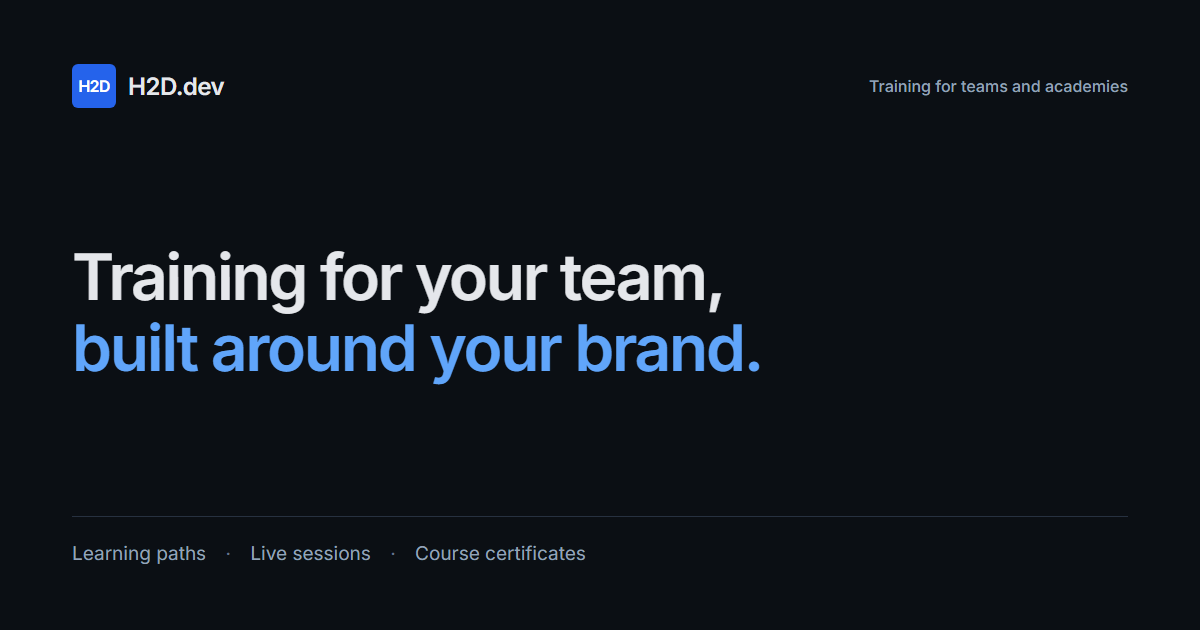
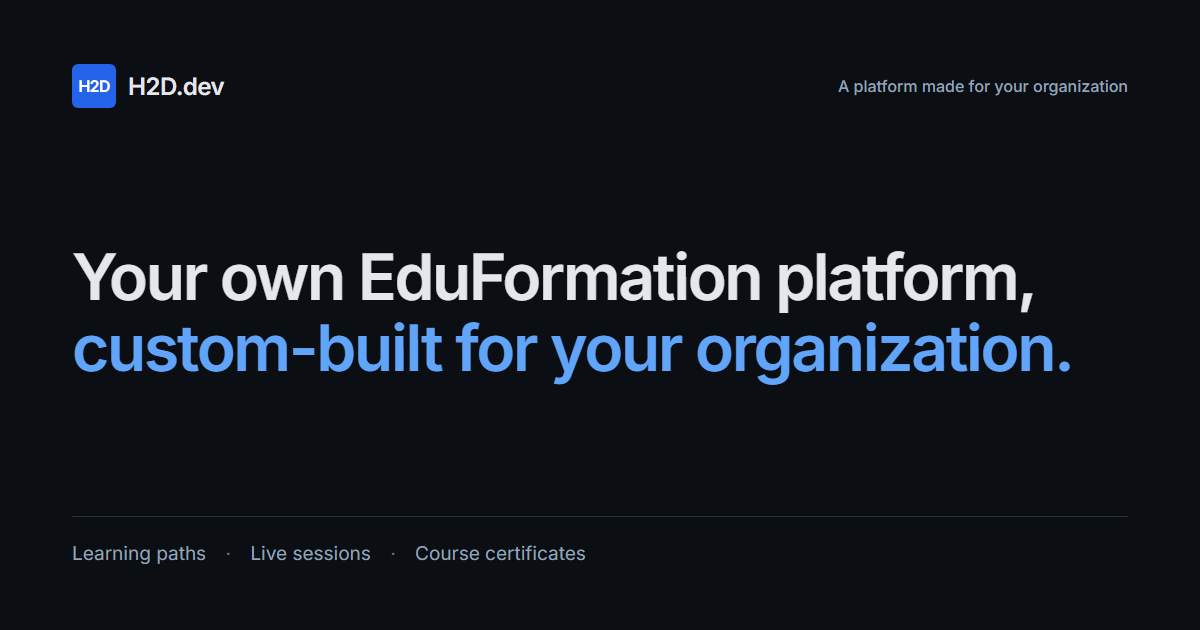
feat: update landing page content and metadata for EduFormation branding

Changed region(s): [[0.0617, 0.3921, 0.8942, 0.6333], [0.6783, 0.1206, 0.9558, 0.1508]]

diff --git a/src/content/ar.ts b/src/content/ar.ts
@@ -8,9 +8,9 @@ import type { Copy } from "./types";
  */
 export const ar = {
   meta: {
-    title: "H2D.dev — تدريب يحمل هوية مؤسستك.",
+    title: "EduFormation — منصتك التدريبية بهويتك | H2D.dev",
     description:
-      "تساعد H2D.dev الأكاديميات والشركات على تقديم تدريب يحمل هويتها، مع دورات منظّمة وجلسات مباشرة ومتابعة التقدّم وشهادات.",
+      "احصل على منصة EduFormation مخصصة لأكاديميتك أو شركتك، بهويتك ودوراتك وجلساتك المباشرة ومتابعة المتدربين وشهاداتك.",
   },
 
   nav: {
@@ -29,12 +29,12 @@ export const ar = {
 
   hero: {
     eyebrow: "H2D.dev · التعلّم والتطوير",
-    title: "تدريب يلائم فريقك،",
-    highlight: "ويحمل هويتك.",
-    body: "أساعد الأكاديميات والشركات على تقديم تجربة تدريب واضحة: دورات منظّمة، وجلسات مباشرة، ومتابعة لتقدّم المتدرّبين، وشهادات تحمل هويتكم.",
-    ctaPrimary: "أرسل لي رسالة",
-    ctaSecondary: "راسلني بالبريد",
-    meta: "أخبرني باحتياج متدرّبيك، وسأساعدك على اختيار الحل المناسب.",
+    title: "منصة تدريب خاصة بمؤسستك،",
+    highlight: "مصممة وفق احتياجاتك.",
+    body: "نبني لكل أكاديمية أو شركة نسخة مخصصة من EduFormation تحمل هويتها وتناسب احتياجاتها التدريبية، مع دوراتها وجلساتها المباشرة ومتابعة المتدربين وشهاداتها.",
+    ctaPrimary: "اطلب عرضًا توضيحيًا",
+    ctaSecondary: "راسلنا بالبريد",
+    meta: "اكتشف كيف يمكن تخصيص EduFormation لمؤسستك.",
     figureCaption: "عرض الدورة. تخطيط توضيحي، وليس لقطة من بيانات حقيقية.",
 
     figureCourse: "التعريف بالشركة",
@@ -199,8 +199,8 @@ export const ar = {
 
   faq: {
     title: "أسئلة تستحق الطرح",
-    q1: "هل نستضيفه بأنفسنا، أم أنه خدمة نشترك بها؟",
-    a1: "تنشرون التطبيق مع قاعدة بيانات PostgreSQL ووحدة تخزين متوافقة مع S3 تخصّكم. ويتم الدخول بحساب ينشئه مسؤول؛ ولا يوجد تسجيل ذاتي.",
+    q1: "هل ستحصل مؤسستنا على منصة مخصصة بها؟",
+    a1: "نعم. تحصل كل أكاديمية أو شركة على منصة EduFormation خاصة بها، مخصصة لهويتها واحتياجاتها التدريبية، مع دوراتها ومتدربيها ولوحة إدارتها.",
     q2: "ما اللغات المدعومة؟",
     a2: "الإنجليزية والفرنسية والعربية، مع تخطيطات من اليمين إلى اليسار. وكل الشاشات، بما فيها الإدارة، تستخدم القاموس ثلاثي اللغات نفسه.",
     q3: "هل يمكننا تحديد الدورات التي يراها المتدرّب؟",
@@ -218,13 +218,13 @@ export const ar = {
   },
 
   finalCta: {
-    title: "لنتحدث عن احتياجاتك التدريبية",
-    body: "أخبرني قليلًا عن فريقك أو أكاديميتك، وسأردّ على عنوان البريد الذي تكتبه.",
-    primary: "اكتب رسالة",
+    title: "اطلب عرضًا توضيحيًا لمنصتك",
+    body: "أخبرنا عن أكاديميتك أو شركتك. سنريك كيف نخصص EduFormation لهويتك ومتدربيك وأهدافك التدريبية.",
+    primary: "اطلب عرضًا توضيحيًا",
   },
 
   footer: {
-    tagline: "EduFormation، من H2D.dev.",
+    tagline: "منصة EduFormation مخصصة لكل عميل.",
     product: "المنتج",
     courses: "الدورات",
     resources: "الموارد",
@@ -242,20 +242,20 @@ export const ar = {
   form: {
     name: "الاسم",
     email: "البريد الإلكتروني",
-    message: "كيف يمكنني مساعدتك؟",
-    submit: "إرسال الرسالة",
+    message: "ما الذي تودّ رؤيته في العرض التوضيحي؟",
+    submit: "أرسل طلب العرض التوضيحي",
     submitting: "جارٍ الإرسال…",
-    success: "شكرًا — سأردّ على {email}.",
+    success: "شكرًا — سنردّ على {email} بخصوص طلب العرض التوضيحي.",
     mailtoOpened: "من المفترض أن يفتح تطبيق البريد برسالتك موجّهة إلى {email}. أرسل الرسالة من التطبيق لإكمال طلبك.",
     error: "لم يتم الإرسال. حاول مرة أخرى، أو راسلنا على {email}.",
     errorName: "أدخل الاسم الذي يجب أن نوجّه الرد إليه.",
     errorEmail: "أدخل عنوان بريد إلكتروني صالحًا، مثل name@example.com.",
-    errorMessage: "اكتب رسالة قصيرة توضّح ما تحتاج إليه.",
+    errorMessage: "أخبرنا قليلًا عن مؤسستك أو احتياجاتك التدريبية.",
   },
 
   contact: {
-    mailtoSubject: "رسالة من موقع H2D.dev",
-    mailtoBody: "مرحبًا،",
+    mailtoSubject: "طلب عرض توضيحي لمنصة EduFormation",
+    mailtoBody: "مرحبًا، أرغب في التعرف على منصة EduFormation مخصصة لمؤسستي.",
   },
 
   unit: {

diff --git a/index.html b/index.html
@@ -4,36 +4,36 @@
     <meta charset="UTF-8" />
     <meta name="viewport" content="width=device-width, initial-scale=1.0" />
     <meta name="theme-color" content="#0b0f14" />
-    <title>H2D.dev — تدريب يحمل هوية مؤسستك.</title>
-    <meta name="description" content="تساعد H2D.dev الأكاديميات والشركات على تقديم تدريب يحمل هويتها، مع دورات منظّمة وجلسات مباشرة ومتابعة التقدّم وشهادات." />
+    <title>EduFormation — منصتك التدريبية بهويتك | H2D.dev</title>
+    <meta name="description" content="احصل على منصة EduFormation مخصصة لأكاديميتك أو شركتك، بهويتك ودوراتك وجلساتك المباشرة ومتابعة المتدربين وشهاداتك." />
     <link rel="canonical" href="%VITE_SITE_URL%/" />
     <link rel="icon" type="image/svg+xml" href="/favicon.svg" />
     <link rel="preload" href="/src/fonts/InterVariable.woff2" as="font" type="font/woff2" crossorigin />
 
     <meta property="og:type" content="website" />
     <meta property="og:site_name" content="H2D.dev" />
-    <meta property="og:title" content="H2D.dev — تدريب يحمل هوية مؤسستك." />
-    <meta property="og:description" content="تساعد H2D.dev الأكاديميات والشركات على تقديم تدريب يحمل هويتها، مع دورات منظّمة وجلسات مباشرة ومتابعة التقدّم وشهادات." />
+    <meta property="og:title" content="EduFormation — منصتك التدريبية بهويتك | H2D.dev" />
+    <meta property="og:description" content="احصل على منصة EduFormation مخصصة لأكاديميتك أو شركتك، بهويتك ودوراتك وجلساتك المباشرة ومتابعة المتدربين وشهاداتك." />
     <meta property="og:url" content="%VITE_SITE_URL%/" />
     <meta property="og:image" content="%VITE_SITE_URL%/og.png" />
     <meta property="og:image:width" content="1200" />
     <meta property="og:image:height" content="630" />
-    <meta property="og:image:alt" content="H2D.dev — تدريب يحمل هوية مؤسستك." />
+    <meta property="og:image:alt" content="EduFormation — منصتك التدريبية المخصصة." />
     <meta property="og:locale" content="ar_AR" />
     <meta property="og:locale:alternate" content="en_US" />
     <meta property="og:locale:alternate" content="fr_FR" />
     <meta name="twitter:card" content="summary_large_image" />
-    <meta name="twitter:title" content="H2D.dev — تدريب يحمل هوية مؤسستك." />
-    <meta name="twitter:description" content="تساعد H2D.dev الأكاديميات والشركات على تقديم تدريب يحمل هويتها، مع دورات منظّمة وجلسات مباشرة ومتابعة التقدّم وشهادات." />
+    <meta name="twitter:title" content="EduFormation — منصتك التدريبية بهويتك | H2D.dev" />
+    <meta name="twitter:description" content="احصل على منصة EduFormation مخصصة لأكاديميتك أو شركتك، بهويتك ودوراتك وجلساتك المباشرة ومتابعة المتدربين وشهاداتك." />
     <meta name="twitter:image" content="%VITE_SITE_URL%/og.png" />
-    <meta name="twitter:image:alt" content="H2D.dev — تدريب يحمل هوية مؤسستك." />
+    <meta name="twitter:image:alt" content="EduFormation — منصتك التدريبية المخصصة." />
 
     <script type="application/ld+json">
       {
         "@context": "https://schema.org",
         "@graph": [
           { "@type": "Organization", "name": "H2D.dev", "url": "%VITE_SITE_URL%/", "logo": "%VITE_SITE_URL%/favicon.svg" },
-          { "@type": "SoftwareApplication", "name": "EduFormation", "url": "%VITE_SITE_URL%/", "applicationCategory": "BusinessApplication", "operatingSystem": "Web", "description": "منصة تدريب تساعد الأكاديميات والشركات على تقديم دورات وجلسات مباشرة وشهادات تحمل هويتها." }
+          { "@type": "SoftwareApplication", "name": "EduFormation", "url": "%VITE_SITE_URL%/", "applicationCategory": "BusinessApplication", "operatingSystem": "Web", "description": "منصة تدريب مخصصة لكل أكاديمية أو شركة، بهويتها ودوراتها وجلساتها المباشرة وشهاداتها." }
         ]
       }
     </script>
@@ -63,8 +63,8 @@
   <body>
     <div id="root">
       <main class="site-fallback">
-        <h1>تدريب يلائم فريقك، ويحمل هويتك.</h1>
-        <p>تساعد H2D.dev الأكاديميات والشركات على تقديم تجربة تدريب واضحة مع دورات منظّمة وجلسات مباشرة ومتابعة للتقدّم وشهادات تحمل هويتهم.</p>
+        <h1>منصة تدريب خاصة بمؤسستك، مصممة وفق احتياجاتك.</h1>
+        <p>نبني لكل أكاديمية أو شركة نسخة مخصصة من EduFormation تحمل هويتها وتناسب احتياجاتها التدريبية، مع دوراتها وجلساتها المباشرة ومتابعة المتدربين وشهاداتها.</p>
       </main>
     </div>
     <script type="module" src="/src/main.tsx"></script>

diff --git a/src/content/fr.ts b/src/content/fr.ts
@@ -6,9 +6,9 @@ import type { Copy } from "./types";
  */
 export const fr = {
   meta: {
-    title: "H2D.dev — Des formations à l’image de votre marque.",
+    title: "EduFormation — Votre plateforme de formation | H2D.dev",
     description:
-      "H2D.dev aide les académies et les entreprises à créer des formations personnalisées avec cours, sessions en direct, suivi et certificats.",
+      "Obtenez votre plateforme EduFormation personnalisée pour votre académie ou entreprise, avec votre marque, des cours, des sessions en direct, un suivi et des certificats.",
   },
 
   nav: {
@@ -27,12 +27,12 @@ export const fr = {
 
   hero: {
     eyebrow: "H2D.dev · Formation et développement",
-    title: "Des formations pour votre équipe,",
-    highlight: "à l’image de votre marque.",
-    body: "J’aide les académies et les entreprises à créer une expérience de formation claire : cours structurés, sessions en direct, suivi des apprenants et certificats personnalisés.",
-    ctaPrimary: "M’envoyer un message",
-    ctaSecondary: "M’écrire par e-mail",
-    meta: "Parlez-moi de vos apprenants et je vous aiderai à trouver la bonne approche.",
+    title: "Votre propre plateforme de formation,",
+    highlight: "conçue pour votre organisation.",
+    body: "Nous créons pour chaque académie ou entreprise sa propre plateforme EduFormation personnalisée, adaptée à sa marque et à ses besoins : cours, sessions en direct, suivi des apprenants et certificats.",
+    ctaPrimary: "Demander une démonstration",
+    ctaSecondary: "Nous écrire",
+    meta: "Découvrez EduFormation adapté à votre organisation.",
     figureCaption: "Vue d'un cours. Maquette illustrative, pas une capture de données réelles.",
 
     figureCourse: "Présentation de l'entreprise",
@@ -202,8 +202,8 @@ export const fr = {
 
   faq: {
     title: "Les questions qui méritent d'être posées",
-    q1: "Est-ce une solution que nous hébergeons, ou un service auquel nous nous abonnons ?",
-    a1: "Vous déployez l'application avec votre propre base de données PostgreSQL et votre propre stockage compatible S3. La connexion se fait avec un compte créé par un administrateur ; il n'y a pas d'inscription autonome.",
+    q1: "Avons-nous notre propre plateforme personnalisée ?",
+    a1: "Oui. Chaque académie ou entreprise dispose de sa propre plateforme EduFormation, personnalisée selon sa marque et ses besoins, avec ses cours, ses apprenants et son espace d’administration.",
     q2: "Quelles langues sont prises en charge ?",
     a2: "Anglais, français et arabe, avec des dispositions de droite à gauche. Chaque écran, administration comprise, utilise le même dictionnaire trilingue.",
     q3: "Pouvons-nous limiter les cours visibles par un apprenant ?",
@@ -221,13 +221,13 @@ export const fr = {
   },
 
   finalCta: {
-    title: "Parlons de vos besoins en formation",
-    body: "Présentez-moi votre équipe ou votre académie et je vous répondrai à l’adresse indiquée.",
-    primary: "Écrire un message",
+    title: "Demandez une démonstration de votre plateforme",
+    body: "Présentez votre académie ou votre entreprise. Nous vous montrerons comment adapter EduFormation à votre marque, à vos apprenants et à vos objectifs.",
+    primary: "Demander une démonstration",
   },
 
   footer: {
-    tagline: "EduFormation, par H2D.dev.",
+    tagline: "Une plateforme EduFormation personnalisée pour chaque client.",
     product: "Produit",
     courses: "Cours",
     resources: "Ressources",
@@ -245,20 +245,20 @@ export const fr = {
   form: {
     name: "Nom",
     email: "Adresse e-mail",
-    message: "Comment puis-je vous aider ?",
-    submit: "Envoyer le message",
+    message: "Que souhaitez-vous découvrir lors de la démonstration ?",
+    submit: "Envoyer la demande de démonstration",
     submitting: "Envoi en cours…",
-    success: "Merci — je vous répondrai à {email}.",
+    success: "Merci — nous répondrons à {email} au sujet de votre demande de démonstration.",
     mailtoOpened: "Votre application de messagerie devrait s’ouvrir avec le message adressé à {email}. Envoyez-le pour terminer votre demande.",
     error: "L'envoi a échoué. Réessayez, ou écrivez à {email}.",
     errorName: "Indiquez le nom auquel adresser la réponse.",
     errorEmail: "Indiquez une adresse e-mail valide, par exemple nom@exemple.fr.",
-    errorMessage: "Écrivez un court message pour m’expliquer votre demande.",
+    errorMessage: "Parlez-nous brièvement de votre organisation ou de vos besoins en formation.",
   },
 
   contact: {
-    mailtoSubject: "Message depuis le site H2D.dev",
-    mailtoBody: "Bonjour,",
+    mailtoSubject: "Demande de démonstration EduFormation",
+    mailtoBody: "Bonjour, je souhaite découvrir une plateforme EduFormation personnalisée pour mon organisation.",
   },
 
   unit: {

diff --git a/src/content/en.ts b/src/content/en.ts
@@ -8,9 +8,9 @@
  */
 export const en = {
   meta: {
-    title: "H2D.dev — Branded training for teams and academies.",
+    title: "EduFormation — Your own branded training platform | H2D.dev",
     description:
-      "H2D.dev helps academies and companies create branded training with structured courses, live sessions, learner progress, and certificates.",
+      "Your own EduFormation platform, customized with your brand, courses, live sessions, learner tracking, and certificates.",
   },
 
   nav: {
@@ -29,12 +29,12 @@ export const en = {
 
   hero: {
     eyebrow: "H2D.dev · Learning and development",
-    title: "Training for your team,",
-    highlight: "built around your brand.",
-    body: "I help academies and companies create a clear training experience with structured courses, live sessions, learner progress, and branded certificates.",
-    ctaPrimary: "Send me a message",
-    ctaSecondary: "Email me",
-    meta: "Tell me what your learners need. I’ll help you find the right approach.",
+    title: "Your own training platform,",
+    highlight: "built for your organization.",
+    body: "We build each academy or company its own customized EduFormation platform, tailored to its brand and training needs, with courses, live sessions, learner progress, and certificates.",
+    ctaPrimary: "Request a demo",
+    ctaSecondary: "Email us",
+    meta: "See how your own EduFormation platform could work for your organization.",
     figureCaption: "Course view. Illustrative layout, not a screenshot of live data.",
 
     /* Illustrative course mock */
@@ -205,8 +205,8 @@ export const en = {
 
   faq: {
     title: "Questions worth asking",
-    q1: "Is this something we host, or a service we subscribe to?",
-    a1: "You deploy the application with your own PostgreSQL database and S3-compatible bucket. Sign-in is by account an administrator creates; there is no self-service signup.",
+    q1: "Do we get our own customized platform?",
+    a1: "Yes. Each academy or company gets its own EduFormation platform, customized for its brand and training needs, with its own courses, learners, and administration.",
     q2: "Which languages does it support?",
     a2: "English, French and Arabic, with right-to-left layouts. Every screen, including administration, uses the same three-language dictionary.",
     q3: "Can we limit which courses a learner sees?",
@@ -224,13 +224,13 @@ export const en = {
   },
 
   finalCta: {
-    title: "Let’s talk about your training needs",
-    body: "Share a little about your team or academy, and I’ll get back to you at the email address you provide.",
-    primary: "Write a message",
+    title: "Request a demo of your platform",
+    body: "Tell us about your academy or company. We’ll show you how EduFormation can be customized for your brand, learners, and training goals.",
+    primary: "Request a demo",
   },
 
   footer: {
-    tagline: "EduFormation, by H2D.dev.",
+    tagline: "A customized EduFormation platform for every client.",
     product: "Product",
     courses: "Courses",
     resources: "Resources",
@@ -248,20 +248,20 @@ export const en = {
   form: {
     name: "Name",
     email: "Email address",
-    message: "How can I help?",
-    submit: "Send message",
+    message: "What would you like to see in your demo?",
+    submit: "Send demo request",
     submitting: "Sending…",
-    success: "Thanks — I’ll reply to {email}.",
+    success: "Thanks — we’ll reply to {email} about your demo request.",
     mailtoOpened: "Your email app should open with the message addressed to {email}. Send it there to complete your inquiry.",
     error: "That did not send. Try again, or email {email}.",
     errorName: "Enter the name we should address the reply to.",
     errorEmail: "Enter a valid email address, for example name@example.com.",
-    errorMessage: "Write a short message so I know how to help.",
+    errorMessage: "Tell us a little about your organization or training needs.",
   },
 
   contact: {
-    mailtoSubject: "Website inquiry for H2D.dev",
-    mailtoBody: "Hello,",
+    mailtoSubject: "EduFormation demo request",
+    mailtoBody: "Hello, I’m interested in a customized EduFormation platform for my organization.",
   },
 
   unit: {

diff --git a/scripts/og-card.html b/scripts/og-card.html
@@ -34,9 +34,9 @@
   <div class="card">
     <div class="top">
       <div class="wordmark"><span class="mark">H2D</span><span>H2D.dev</span></div>
-      <span class="category">Training for teams and academies</span>
+      <span class="category">A platform made for your organization</span>
     </div>
-    <div class="headline">Training for your team,<span>built around your brand.</span></div>
+    <div class="headline">Your own EduFormation platform,<span>custom-built for your organization.</span></div>
     <div class="rule"></div>
     <p class="capabilities">Learning paths <span>·</span> Live sessions <span>·</span> Course certificates</p>
   </div>

diff --git a/README.md b/README.md
@@ -1,6 +1,6 @@
 # EduFormation landing page
 
-A static brand landing page for H2D.dev and the EduFormation training platform. It describes the platform's capabilities and their limits; it does not implement the application, authentication, billing, or a dashboard.
+A static brand landing page for H2D.dev and EduFormation. It presents the platform's features and invites academies and companies to request a demo of their own customized EduFormation platform. Each client receives a version tailored to its organization. This repository contains the landing page, not the client platforms, authentication, billing, or dashboards.
 
 ## Stack and local development
 
